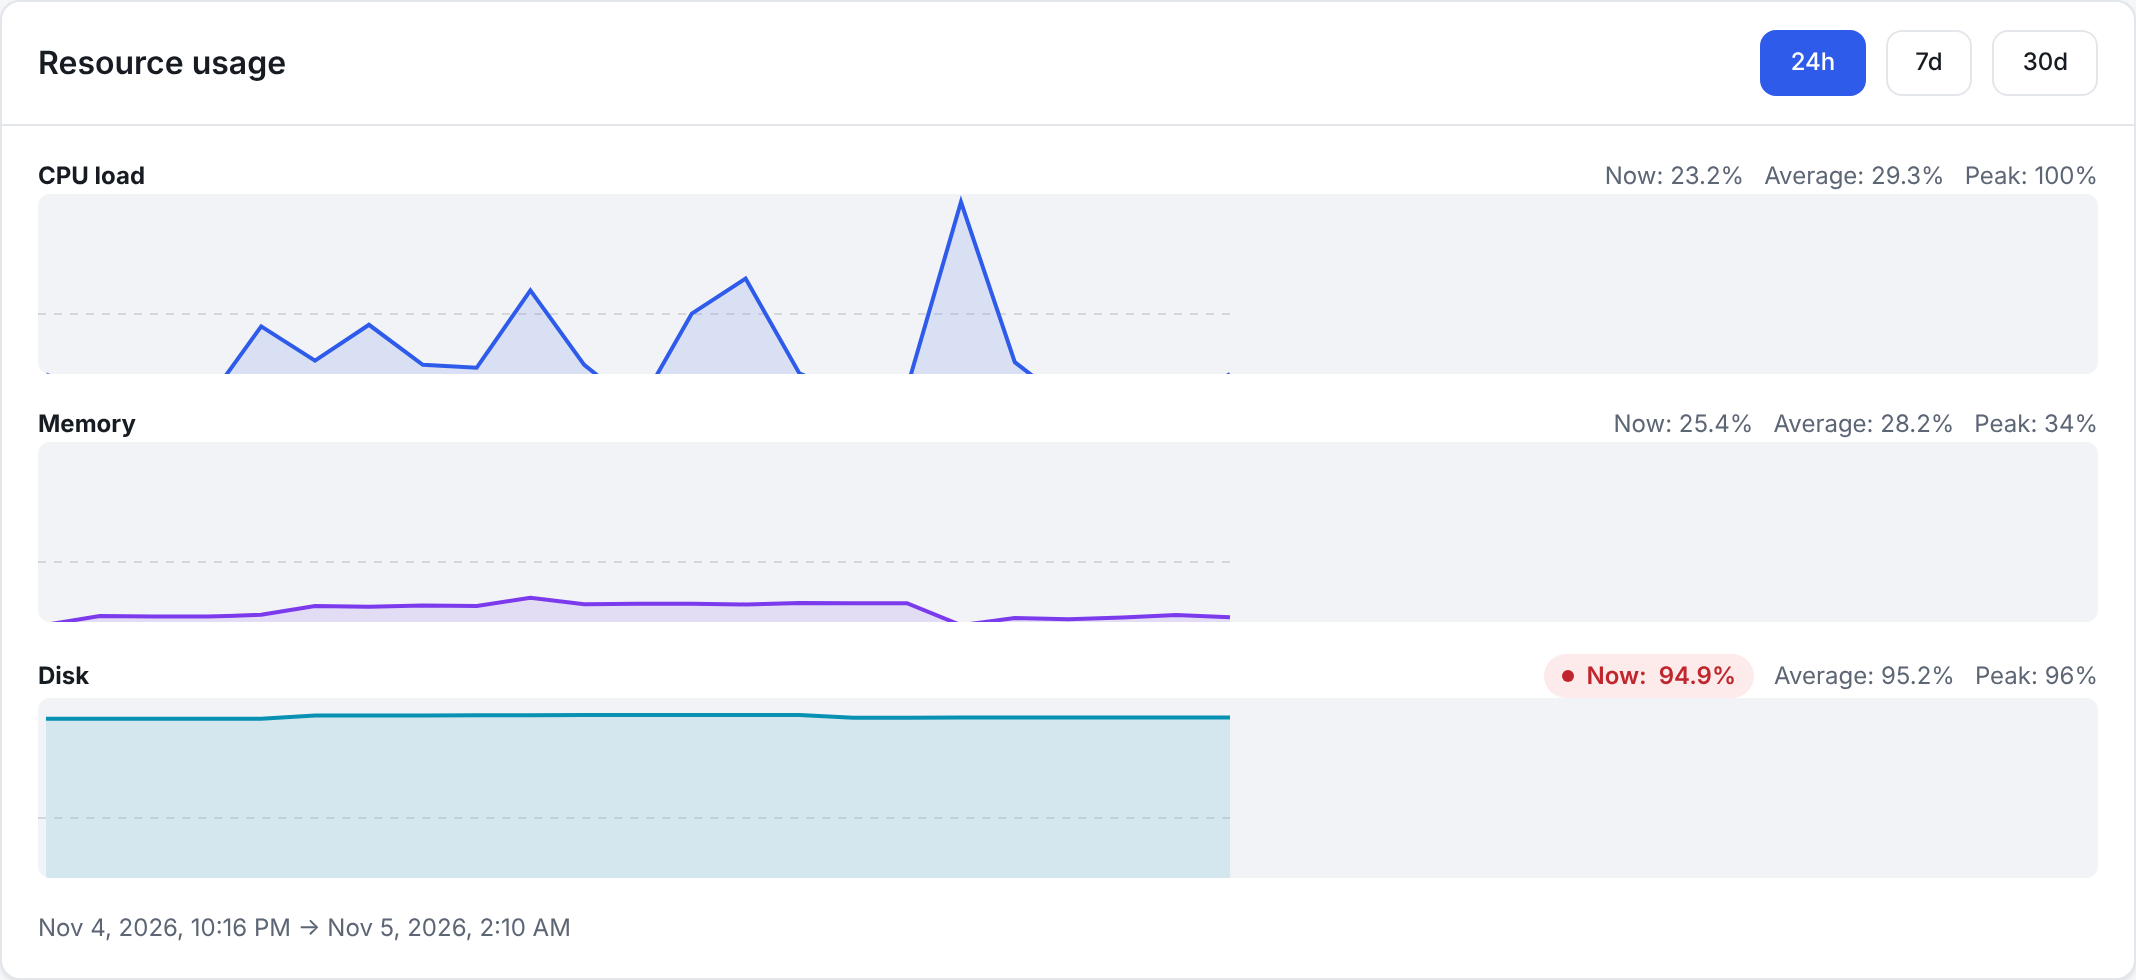
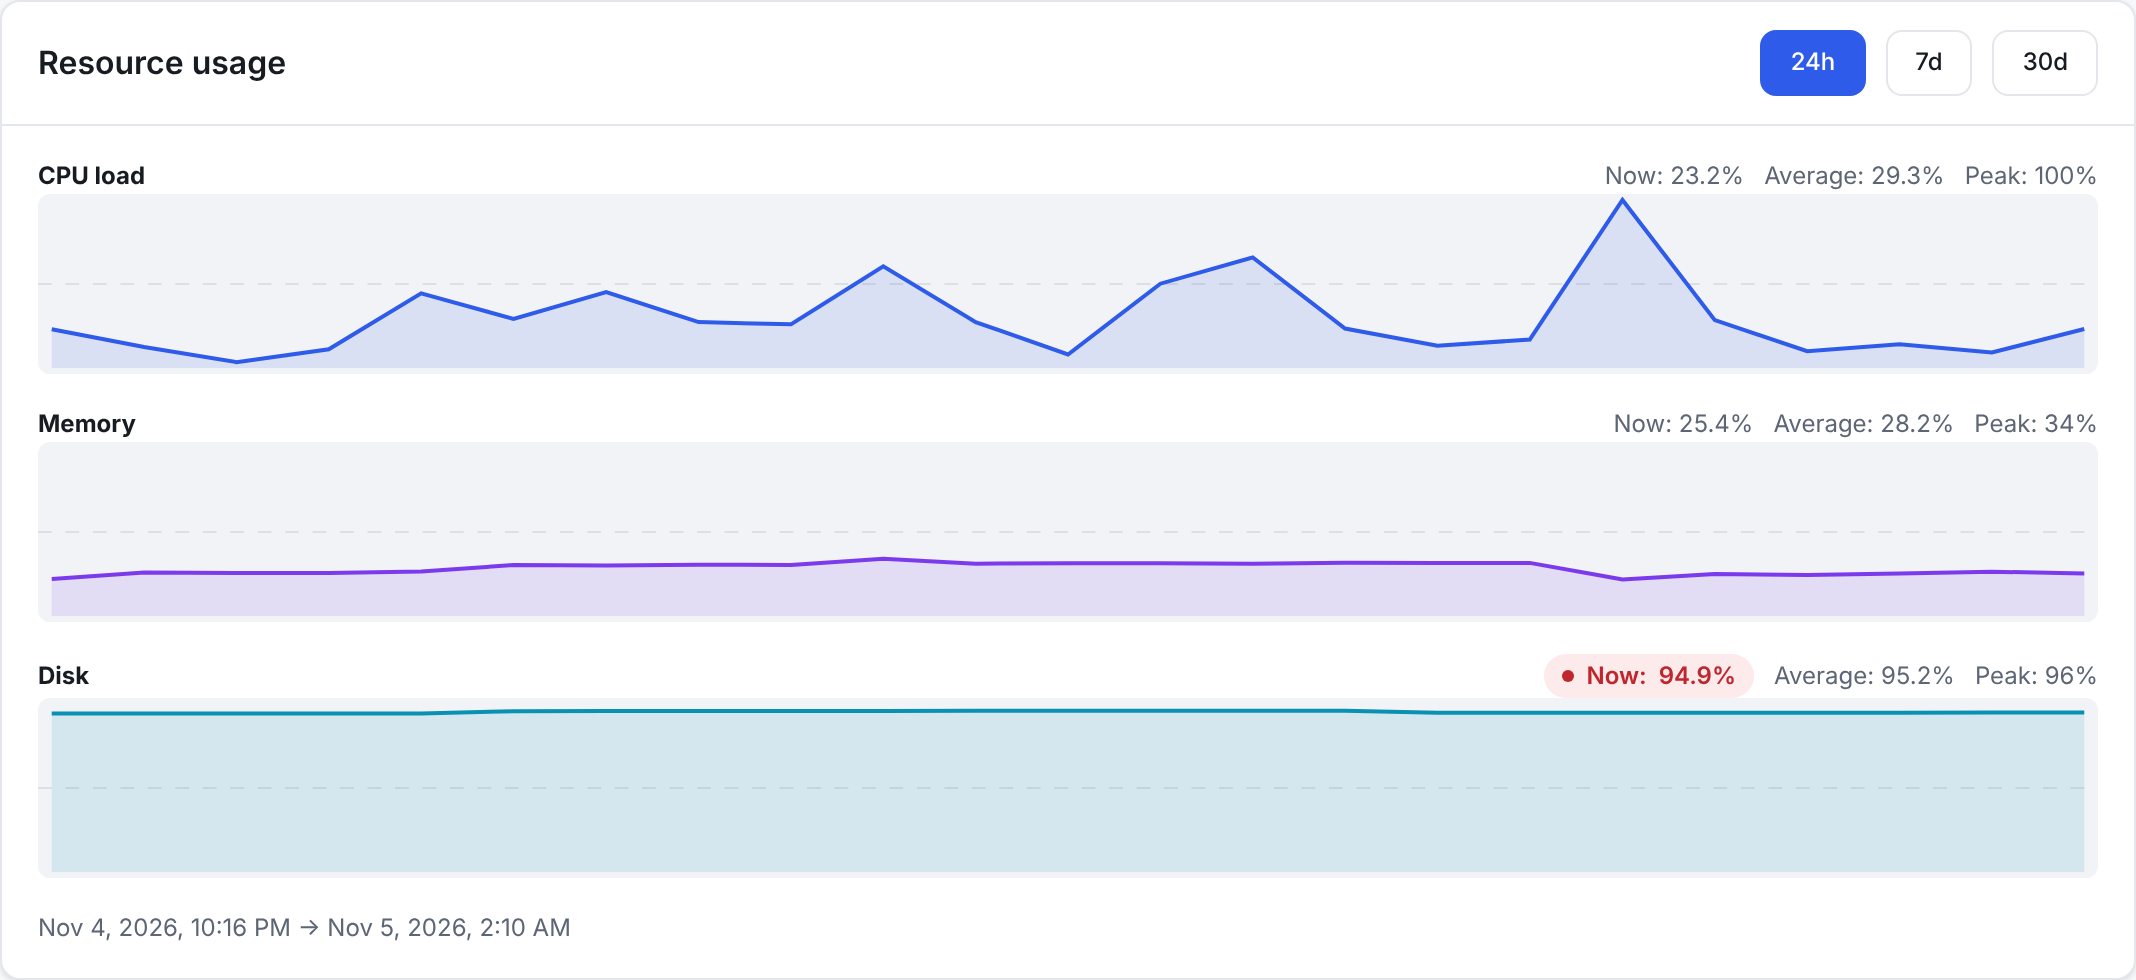
Charts fill their width; no raw errors on the control plane card
- server.html / monitoring.html: literal viewBox instead of an Alpine :viewBox binding (the
  HTML parser lowercases it to 'viewbox', which SVG ignores, so charts drew in raw pixels
  over ~60% of the width). Test guards every portal page.
- Control plane card: a failed GitHub release lookup shows a short translated message; the
  details go to the Error Log.

Claude-Session: https://claude.ai/code/session_01H81sbb3PLe8cUobwA7wF1d

diff --git a/control-plane/nexaploy/www/dashboard/server.html b/control-plane/nexaploy/www/dashboard/server.html
@@ -90,9 +90,9 @@
 										<span class="muted">{{ _("Average") }}: <span class="ltr" x-text="stat(m.key, 'avg')"></span></span>
 										<span class="muted">{{ _("Peak") }}: <span class="ltr" x-text="stat(m.key, 'max')"></span></span>
 									</div>
-									<svg :viewBox="'0 0 ' + W + ' ' + H" preserveAspectRatio="none" role="img" :aria-label="m.label"
+									<svg viewBox="0 0 600 120" preserveAspectRatio="none" role="img" :aria-label="m.label"
 									     style="width: 100%; height: 90px; display: block; direction: ltr; background: var(--nx-surface-2, rgba(127,127,127,.06)); border-radius: 6px">
-										<line x1="0" :x2="W" :y1="H / 2" :y2="H / 2" stroke="currentColor" stroke-opacity=".12" stroke-dasharray="4 4"></line>
+										<line x1="0" x2="600" y1="60" y2="60" stroke="currentColor" stroke-opacity=".12" stroke-dasharray="4 4"></line>
 										<path :d="fill(m.key)" :fill="m.color" fill-opacity=".12" stroke="none"></path>
 										<path :d="line(m.key)" fill="none" :stroke="m.color" stroke-width="2" vector-effect="non-scaling-stroke"></path>
 									</svg>

diff --git a/control-plane/nexaploy/www/dashboard/monitoring.html b/control-plane/nexaploy/www/dashboard/monitoring.html
@@ -144,7 +144,7 @@
 				</div>
 				<div>
 					<div class="small muted">{{ _("Response time") }} <span class="ltr" x-show="chartMax()">(max <span x-text="chartMax()"></span> ms)</span></div>
-					<svg class="nx-mon-chart" :viewBox="'0 0 ' + chartW + ' ' + chartH" preserveAspectRatio="none" role="img" aria-label="{{ _('Response time') }}" style="direction: ltr">
+					<svg class="nx-mon-chart" viewBox="0 0 600 140" preserveAspectRatio="none" role="img" aria-label="{{ _('Response time') }}" style="direction: ltr">
 						<line class="grid-line" x1="0" :x2="chartW" :y1="chartH / 2" :y2="chartH / 2"></line>
 						<line class="grid-line" x1="0" :x2="chartW" :y1="chartH - 1" :y2="chartH - 1"></line>
 						<path class="fail" :d="chartFailPath()"></path>

diff --git a/control-plane/nexaploy/templates/includes/controlplane_admin.html b/control-plane/nexaploy/templates/includes/controlplane_admin.html
@@ -31,7 +31,7 @@
 				<dd>
 					<span class="ltr" x-text="st && st.latest ? st.latest.version : '—'"></span>
 					<span class="badge info" x-show="st && st.update_available">{{ _("Update available") }}</span>
-					<span class="small muted" x-show="st && st.latest_error" x-text="st && st.latest_error"></span>
+					<span class="small muted" x-show="st && st.latest_error" x-text="st && __(st.latest_error)"></span>
 				</dd>
 			</dl>
 			<template x-if="st && !st.can_update">

diff --git a/control-plane/tests/test_server_metrics.py b/control-plane/tests/test_server_metrics.py
@@ -56,3 +56,19 @@ def test_server_page_wiring_and_js():
 	assert "nexaploy.api.server_metrics.get_server_metrics" in open(js).read()
 	assert "cdn" not in open(js).read().lower()
 	subprocess.run(["node", "--check", js], check=True)
+
+
+def test_svg_viewbox_is_a_literal_attribute():
+	"""The HTML parser lowercases attribute names, so an Alpine `:viewBox` binding sets
+	`viewbox`, which SVG ignores (charts drew in raw pixels, ~60% of the width). The JS draws
+	in a 600x120 box: the template must declare exactly that, literally."""
+	html = open(os.path.join(APP, "www", "dashboard", "server.html")).read()
+	assert ":viewBox" not in html and 'viewBox="0 0 600 120"' in html
+	assert "var W = 600, H = 120" in open(os.path.join(APP, "public", "js", "server_metrics.js")).read()
+	for root, _d, files in os.walk(os.path.join(APP, "www")):
+		for name in files:
+			if name.endswith(".html"):
+				assert ":viewBox" not in open(os.path.join(root, name)).read(), name
+	mon = open(os.path.join(APP, "www", "dashboard", "monitoring.html")).read()
+	js_mon = open(os.path.join(APP, "public", "js", "monitoring.js")).read()
+	assert 'viewBox="0 0 600 140"' in mon and "CHART_W = 600" in js_mon and "CHART_H = 140" in js_mon

diff --git a/control-plane/nexaploy/controlplane.py b/control-plane/nexaploy/controlplane.py
@@ -54,8 +54,11 @@ def latest_release(force=False):
 		value = {"release": cu.pick_release(resp.json(), rs["channel"]), "error": None,
 		         "checked_at": str(frappe.utils.now_datetime())}
 		ttl = cu.RELEASE_CACHE_SECONDS
-	except Exception as exc:
-		value = {"release": None, "error": str(exc)[:300], "checked_at": str(frappe.utils.now_datetime())}
+	except Exception:
+		# full detail in the Error Log; the card only says the lookup failed
+		frappe.log_error(title="Nexaploy: GitHub release lookup failed")
+		value = {"release": None, "error": "Could not check GitHub for new releases (see the Error Log).",
+		         "checked_at": str(frappe.utils.now_datetime())}
 		ttl = 300
 	cache.set_value(key, value, expires_in_sec=ttl)
 	return value
